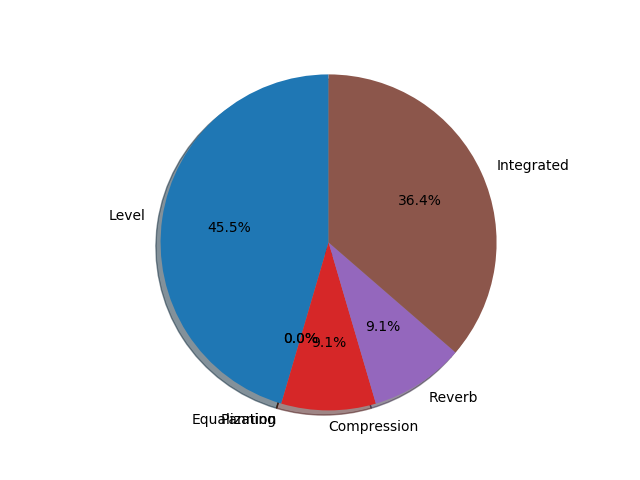
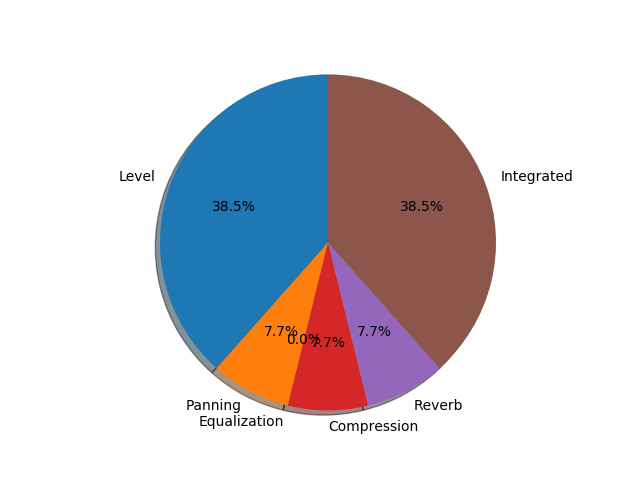
added 2 new papers

diff --git a/README.md b/README.md
@@ -22,6 +22,7 @@ Systems that incorporate more than one procees are categorized as `integrated`.
 ## Panning
 |Year|Title|Authors|Approach|Resources|
 |---|---|---|---|---|
+|2010|[A real-time semiautonomous audio panning system for music mixing](https://asp-eurasipjournals.springeropen.com/articles/10.1155/2010/436895)|E. Perez Gonzalez and J. D. Reiss|GT|No|
 ## Equalization
 |Year|Title|Authors|Approach|Resources|
 |---|---|---|---|---|
@@ -39,6 +40,7 @@ Systems that incorporate more than one procees are categorized as `integrated`.
 |2017|[Towards an automated multitrack mixing tool using answer set programming](http://smc2017.aalto.fi/media/materials/proceedings/SMC17_p422.pdf)|F. Everardo|KE|No|
 |2017|[Analysis and prediction of the audio feature space when mixing raw recordings into individual stems](http://www.aes.org/e-lib/browse.cfm?elib=19245)|M. A. Martínez Ramírez and J. D. Reiss|ML|[Yes](https://github.com/mchijmma/audioFeatures-stemMixing)|
 |2010|[Advanced automatic mixing tools for music](https://qmro.qmul.ac.uk/jspui/handle/123456789/614)|E. Perez Gonzalez|GT|No|
+|2010|[Automatic Music Production System Employing Probabilistic Expert Systems](http://www.aes.org/e-lib/browse.cfm?elib=15677)|R. Gang, G. Bocko, J. Lundberg, D. Headlam, and M. F. Bocko|KE|No|
 |2008|[Improved control for selective minimization of masking using interchannel dependancy effects](http://legacy.spa.aalto.fi/dafx08/papers/dafx08_15.pdf)|E. Perez Gonzalez and J. D. Reiss|GT|No|
 # Statistics
 ![pubs_by_year](figs/papers_by_year.png)
